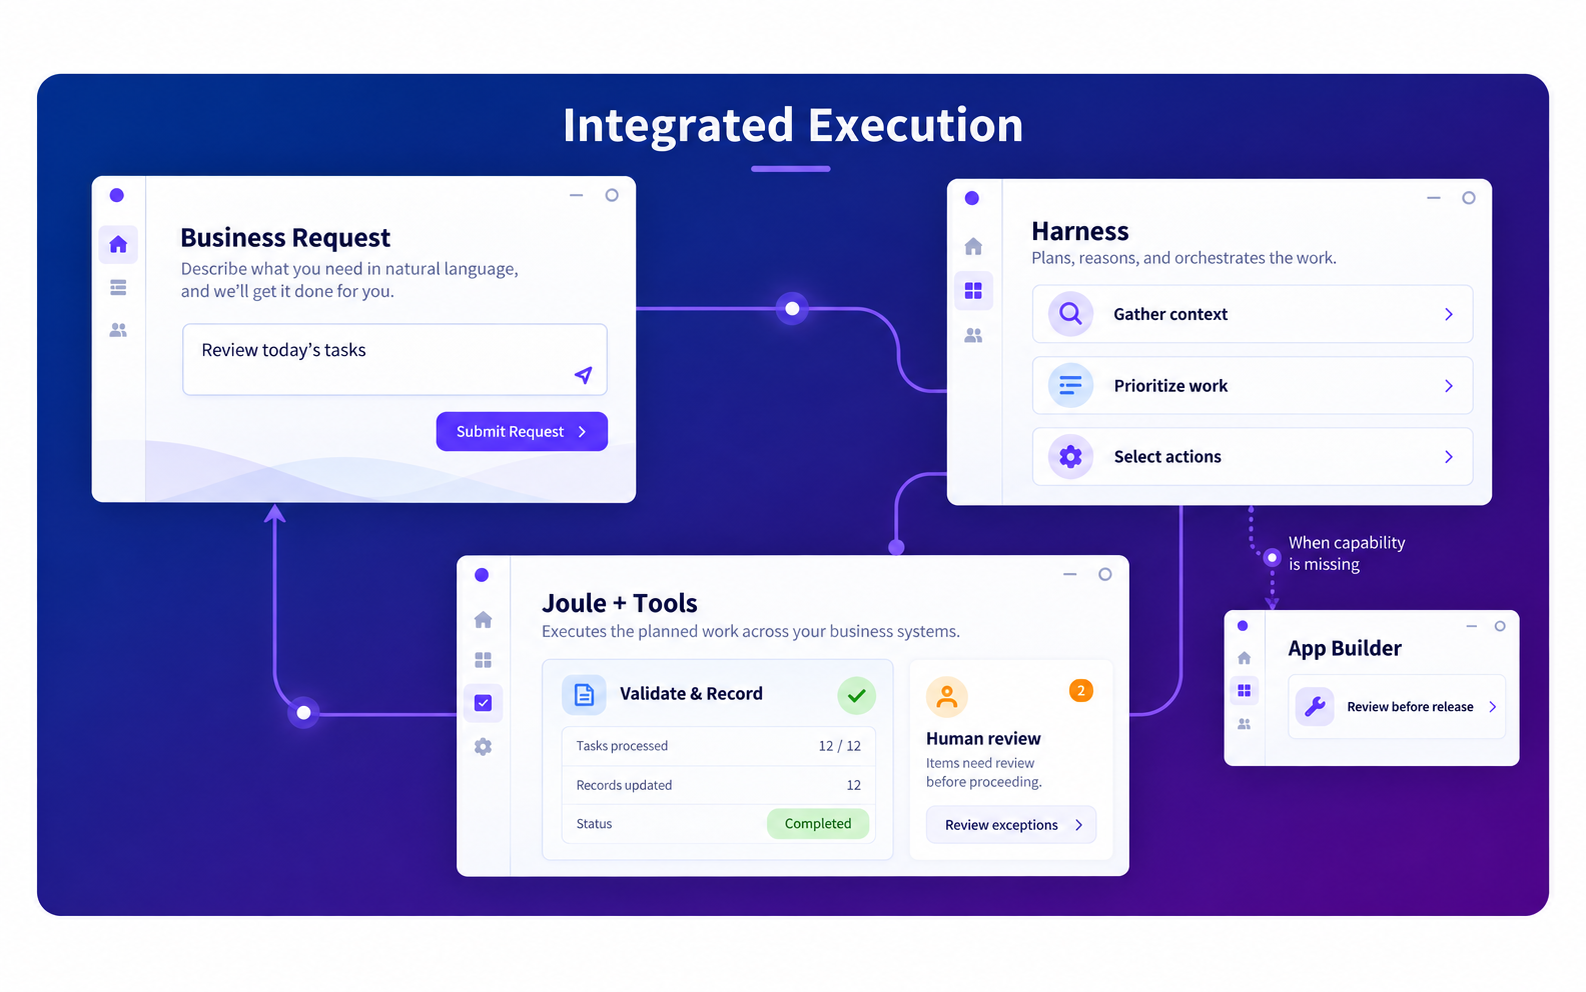
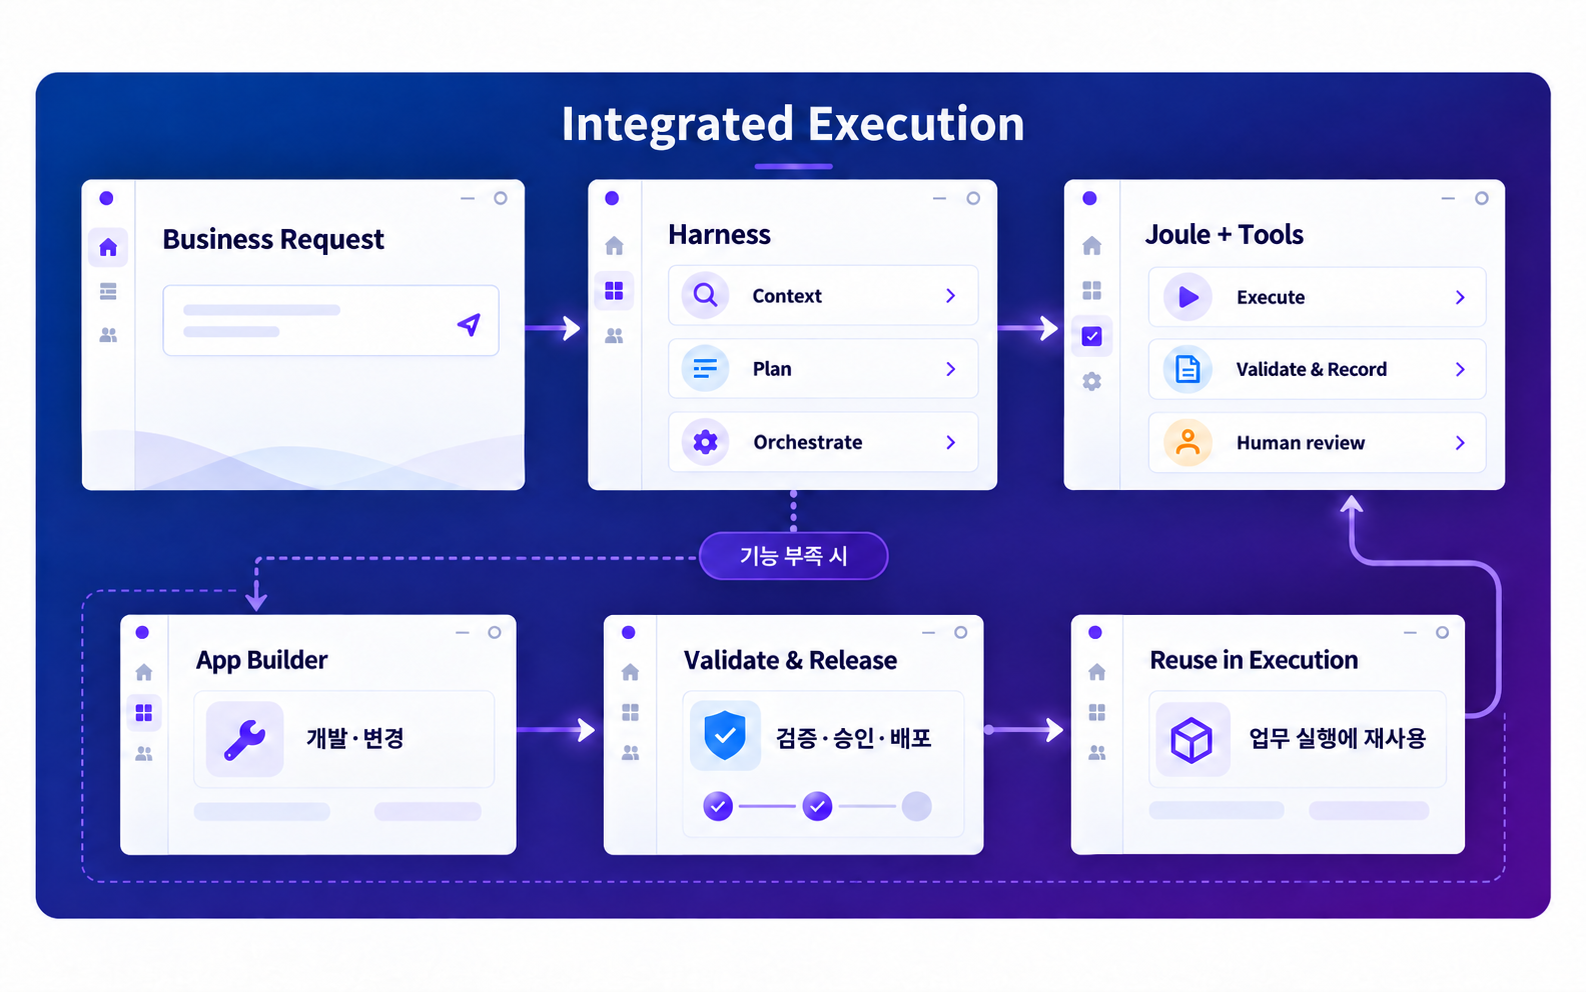
Embed conditional build path in visual and remove repeated text

diff --git a/6page.html b/6page.html
@@ -1,4 +1,4 @@
 <!doctype html>
 <html lang="ko"><head><meta charset="utf-8"><meta name="viewport" content="width=device-width,initial-scale=1"><title>Agentic Execution — Integrated Operating Model | SAP BTP AI</title><link rel="stylesheet" href="sap-template.css"><link rel="stylesheet" href="assets/korean-editorial.css"><link rel="stylesheet" href="assets/sap-official-template.css"><style>
-.execution-concept *{box-sizing:border-box}.execution-concept h1{margin:0}.execution-intro{margin:22px 0 0;color:#475e75;font-size:23px;line-height:1.45}.execution-layout{display:grid;grid-template-columns:minmax(0,2.15fr) minmax(0,1fr);gap:40px;align-items:center;margin-top:32px}.execution-visual{margin:0}.execution-visual img{display:block;width:100%;height:490px;object-fit:contain}.execution-visual figcaption{margin-top:20px;padding-top:20px;border-top:1px solid #d1efff;font-size:18px;line-height:1.5;color:#475e75}.execution-visual figcaption b{display:block;margin-bottom:8px;color:#0070f2;font-size:19px;font-weight:500}.execution-stages{display:grid;grid-template-columns:1fr;gap:18px}.execution-stage{position:relative;padding:14px 18px;border:1px solid #d1efff;border-top:3px solid #1b90ff;background:#f5faff}.execution-stage:not(:last-child)::after{content:'↓';position:absolute;left:50%;bottom:-20px;color:#0070f2;font-size:20px;line-height:18px}.execution-stage small{color:#0070f2;font-size:12px}.execution-stage h2{margin:8px 0;font-size:23px;font-weight:500;line-height:1.25}.execution-stage p{margin:0;font-size:17px;line-height:1.4;color:#475e75}@media(max-width:800px){.execution-layout{grid-template-columns:1fr}.execution-visual img{height:auto}}
-</style></head><body><main class="slide execution-concept"><h1>Agentic Execution — Integrated Operating Model</h1><p class="execution-intro">SAP 업무 연결 · 판단과 조율 · 기능 확장의 통합</p><section class="execution-layout" aria-label="Integrated execution and conditional application development"><figure class="execution-visual"><img src="assets/integrated-execution-ui-concept.png" alt="업무 요청, Harness의 판단·계획, Joule과 Tools의 업무 수행, 결과 검증을 연결하는 2D UI 콘셉트. 기능 부족 시에만 App Builder로 확장하는 조건부 경로."><figcaption><b>Conditional Build Path · 기능 부족 시</b>변경 범위 정의 → App Builder 개발·변경 → 검증·승인·배포<br>승인된 기능을 이후 업무 실행에 활용</figcaption></figure><section class="execution-stages" aria-label="Four operating model stages"><article class="execution-stage"><small>01 · Business Request</small><h2>업무 요청</h2><p>Portal로 목표와 기대 결과 전달</p></article><article class="execution-stage"><small>02 · Reason &amp; Orchestrate</small><h2>Harness</h2><p>SAP Data · Wiki · Knowledge Graph 기반 계획·실행 경로 결정</p></article><article class="execution-stage"><small>03 · SAP Access &amp; Execution</small><h2>Joule + Tools</h2><p>SAP Data 조회 · 허용된 업무 수행</p></article><article class="execution-stage"><small>04 · Validate &amp; Record</small><h2>검증과 기록</h2><p>Harness의 결과 검증·기록<br>예외는 사람에게 전달</p></article></section></section><span class="slide-page-number">09</span></main></body></html>
+.execution-concept *{box-sizing:border-box}.execution-concept h1{margin:0}.execution-intro{margin:22px 0 0;color:#475e75;font-size:23px;line-height:1.45}.execution-layout{display:grid;grid-template-columns:minmax(0,2.15fr) minmax(0,1fr);gap:40px;align-items:center;margin-top:32px}.execution-visual{margin:0}.execution-visual img{display:block;width:100%;height:590px;object-fit:contain}.execution-stages{display:grid;grid-template-columns:1fr;gap:18px}.execution-stage{position:relative;padding:14px 18px;border:1px solid #d1efff;border-top:3px solid #1b90ff;background:#f5faff}.execution-stage:not(:last-child)::after{content:'↓';position:absolute;left:50%;bottom:-20px;color:#0070f2;font-size:20px;line-height:18px}.execution-stage small{color:#0070f2;font-size:12px}.execution-stage h2{margin:8px 0;font-size:23px;font-weight:500;line-height:1.25}.execution-stage p{margin:0;font-size:17px;line-height:1.4;color:#475e75}@media(max-width:800px){.execution-layout{grid-template-columns:1fr}.execution-visual img{height:auto}}
+</style></head><body><main class="slide execution-concept"><h1>Agentic Execution — Integrated Operating Model</h1><p class="execution-intro">SAP 업무 연결 · 판단과 조율 · 기능 확장의 통합</p><section class="execution-layout" aria-label="Integrated execution and conditional application development"><figure class="execution-visual"><img src="assets/integrated-execution-ui-concept.png" alt="업무 요청 → Harness → Joule·Tools 실행 경로와, 기능 부족 시 App Builder → 검증·승인·배포 → 업무 실행에 재사용하는 조건부 경로를 함께 보여주는 2D UI 콘셉트."></figure><section class="execution-stages" aria-label="Four operating model stages"><article class="execution-stage"><small>01 · Business Request</small><h2>업무 요청</h2><p>목표와 기대 결과 전달</p></article><article class="execution-stage"><small>02 · Reason &amp; Orchestrate</small><h2>Harness</h2><p>Business Context 기반 판단·실행 조율</p></article><article class="execution-stage"><small>03 · SAP Access &amp; Execution</small><h2>Joule + Tools</h2><p>SAP Data 조회 · 허용된 업무 수행</p></article><article class="execution-stage"><small>04 · Validate &amp; Record</small><h2>검증과 기록</h2><p>결과 검증·기록 · 예외 전달</p></article></section></section><span class="slide-page-number">09</span></main></body></html>

diff --git a/slides.js b/slides.js
@@ -105,7 +105,7 @@ const slides = [
     "status": "new",
     "purpose": "Explain how Joule, Harness and App Builder combine in the intended operating model.",
     "keyMessage": "Harness orchestrates SAP execution through Joule and tools; App Builder extends capabilities through a conditional reviewed build path.",
-    "changes": "Replaced the flat operating flow with a 2D UI concept image matching slide 8, retaining four role cards and the conditional App Builder path.",
+    "changes": "Promoted the conditional App Builder -> Validate/Approve/Release -> Reuse path into the UI image; removed duplicate below-image text and shortened four role cards.",
     "visualAudit": "REDESIGN",
     "agents": "Joule + Harness + App Builder",
     "section": "Autonomous Enterprise & Governance",

diff --git a/assets/integrated-execution-ui-concept-notes.md b/assets/integrated-execution-ui-concept-notes.md
@@ -3,3 +3,5 @@
 Custom generated illustration for slide 9, using the approved slide 8 UI concept image as style reference. This is an illustrative experience, not actual SAP or Harness product screenshots.
 
 Preserved roles: Portal conveys the request; Harness gathers context, plans and orchestrates; Joule and Tools access SAP and perform permitted work; Harness validates and records results and routes exceptions to people. App Builder is a conditional capability-extension path requiring validation and approval before release.
+
+Revision: the conditional build path is now fully depicted inside the image, including capability-gap trigger, App Builder, validation/approval/release, and reuse returning to execution. Removed external Conditional Build Path caption and shortened role descriptions to avoid repetition.
